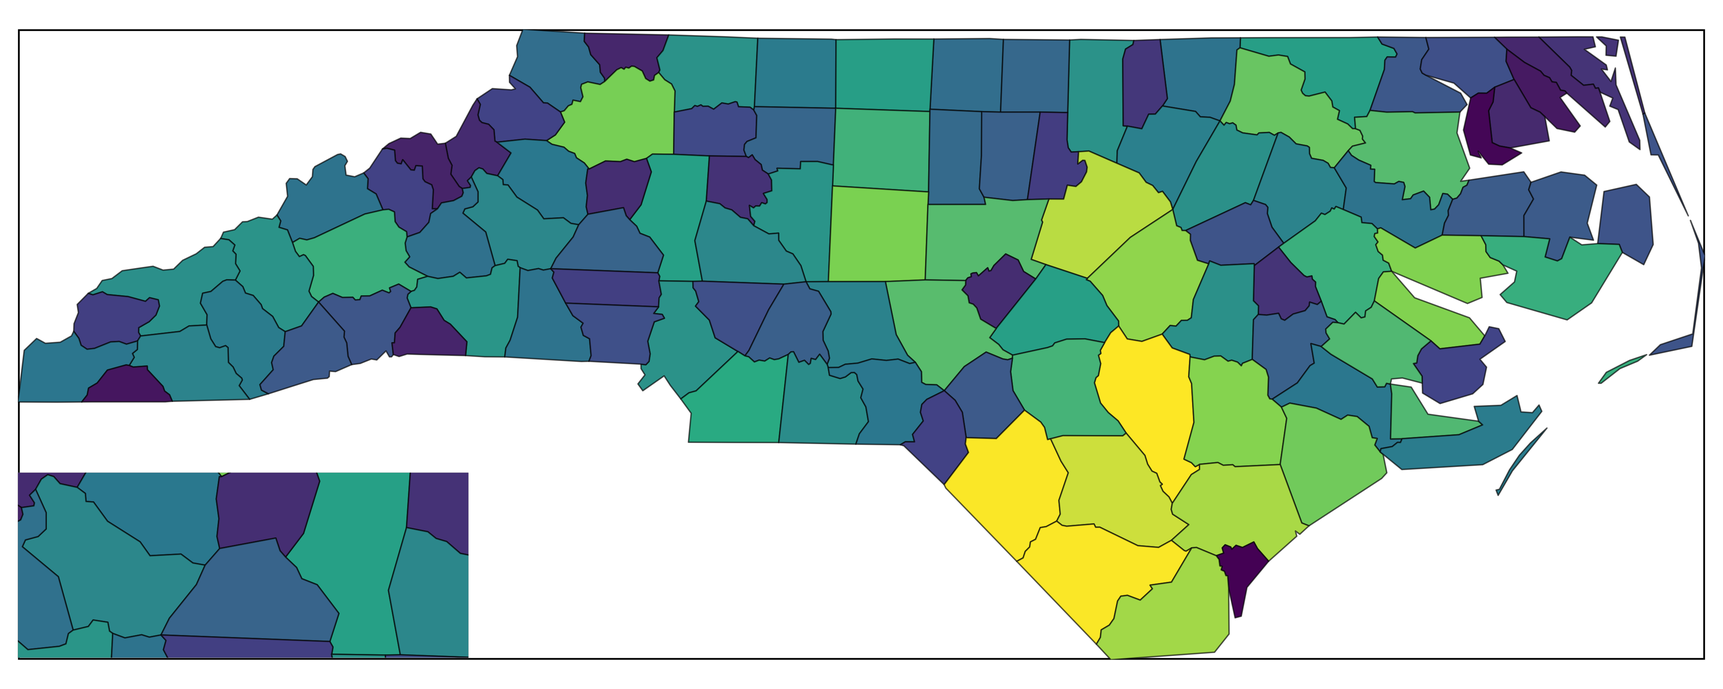
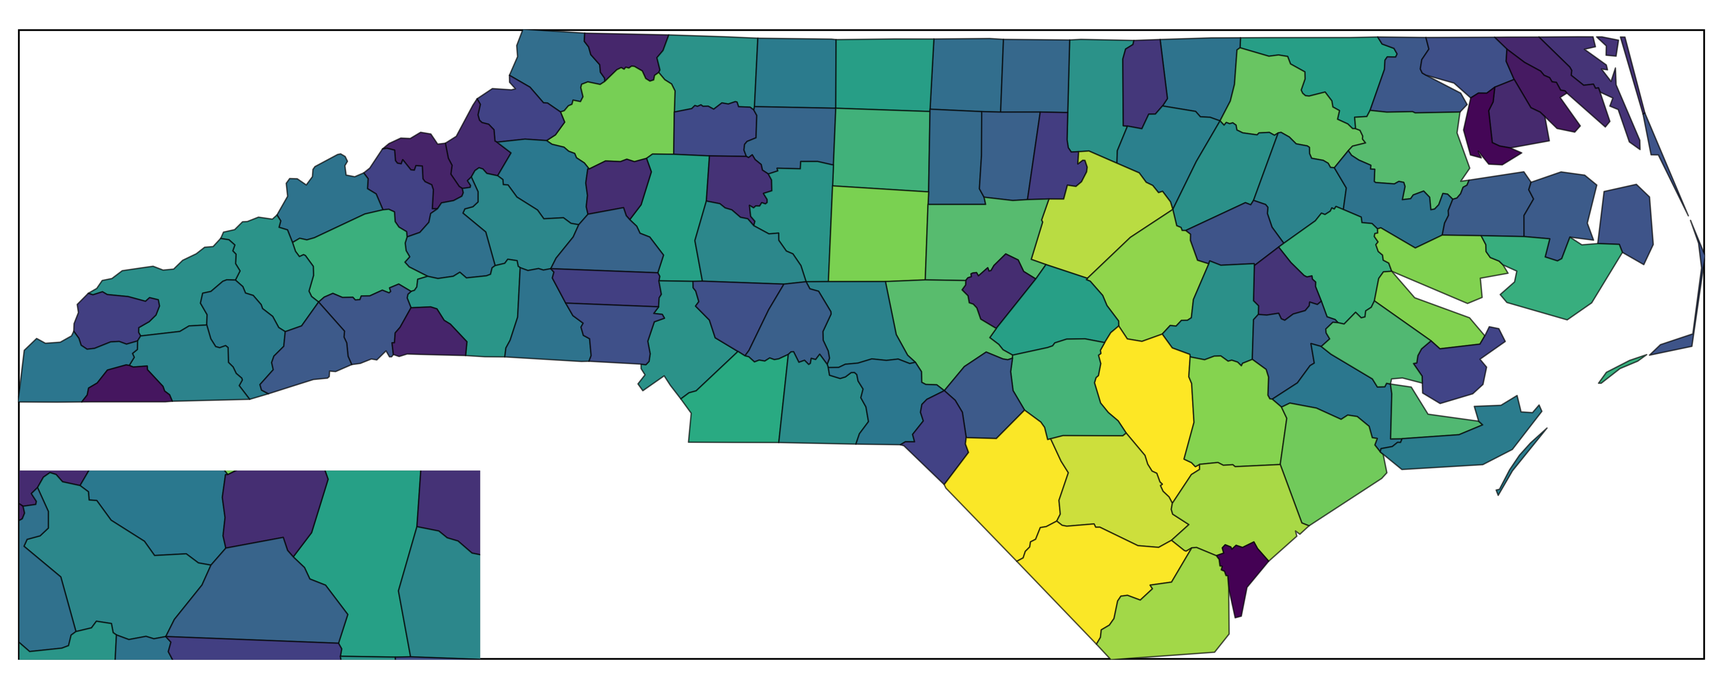
Deploying to gh-pages from @ fncokg/insetplot@d2dd25fe0463ac36d8b167d96184c5ed0bf99217 🚀

Changed region(s): [[0.0, 0.6789, 0.2798, 0.9566]]

diff --git a/articles/insetplot.html b/articles/insetplot.html
@@ -20,7 +20,7 @@
 
     <a class="navbar-brand me-2" href="../index.html">insetplot</a>
 
-    <small class="nav-text text-muted me-auto" data-bs-toggle="tooltip" data-bs-placement="bottom" title="">1.3.0</small>
+    <small class="nav-text text-muted me-auto" data-bs-toggle="tooltip" data-bs-placement="bottom" title="">1.4.0</small>
 
 
     <button class="navbar-toggler" type="button" data-bs-toggle="collapse" data-bs-target="#navbar" aria-controls="navbar" aria-expanded="false" aria-label="Toggle navigation">
@@ -68,7 +68,7 @@ insetplot, with emphasis on runnable code.</p>
 <div class="sourceCode" id="cb1"><pre class="downlit sourceCode r">
 <code class="sourceCode R"><span><span class="co"># 1) Configure the layout: one main map + one inset (nc loaded in setup)</span></span>
 <span><span class="fu"><a href="../reference/config_insetmap.html">config_insetmap</a></span><span class="op">(</span></span>
-<span>    data_list <span class="op">=</span> <span class="fu"><a href="https://rdrr.io/r/base/list.html" class="external-link">list</a></span><span class="op">(</span><span class="va">nc</span><span class="op">)</span>,</span>
+<span>    bbox <span class="op">=</span> <span class="fu"><a href="https://r-spatial.github.io/sf/reference/st_bbox.html" class="external-link">st_bbox</a></span><span class="op">(</span><span class="va">nc</span><span class="op">)</span>,</span>
 <span>    specs <span class="op">=</span> <span class="fu"><a href="https://rdrr.io/r/base/list.html" class="external-link">list</a></span><span class="op">(</span></span>
 <span>        <span class="fu"><a href="../reference/inset_spec.html">inset_spec</a></span><span class="op">(</span>main <span class="op">=</span> <span class="cn">TRUE</span><span class="op">)</span>,</span>
 <span>        <span class="fu"><a href="../reference/inset_spec.html">inset_spec</a></span><span class="op">(</span></span>
@@ -105,7 +105,7 @@ only.</p>
 <span>    <span class="fu"><a href="https://ggplot2.tidyverse.org/reference/ggtheme.html" class="external-link">theme_void</a></span><span class="op">(</span><span class="op">)</span></span>
 <span></span>
 <span><span class="fu"><a href="../reference/config_insetmap.html">config_insetmap</a></span><span class="op">(</span></span>
-<span>    data_list <span class="op">=</span> <span class="fu"><a href="https://rdrr.io/r/base/list.html" class="external-link">list</a></span><span class="op">(</span><span class="va">nc</span><span class="op">)</span>,</span>
+<span>    bbox <span class="op">=</span> <span class="fu"><a href="https://r-spatial.github.io/sf/reference/st_bbox.html" class="external-link">st_bbox</a></span><span class="op">(</span><span class="va">nc</span><span class="op">)</span>,</span>
 <span>    specs <span class="op">=</span> <span class="fu"><a href="https://rdrr.io/r/base/list.html" class="external-link">list</a></span><span class="op">(</span></span>
 <span>        <span class="fu"><a href="../reference/inset_spec.html">inset_spec</a></span><span class="op">(</span>main <span class="op">=</span> <span class="cn">TRUE</span>, plot <span class="op">=</span> <span class="va">main</span><span class="op">)</span>,</span>
 <span>        <span class="fu"><a href="../reference/inset_spec.html">inset_spec</a></span><span class="op">(</span></span>
@@ -185,7 +185,7 @@ on visual inspection of the output plot.</p>
 gracefully.</p>
 <div class="sourceCode" id="cb8"><pre class="downlit sourceCode r">
 <code class="sourceCode R"><span><span class="fu"><a href="../reference/config_insetmap.html">config_insetmap</a></span><span class="op">(</span></span>
-<span>    data_list <span class="op">=</span> <span class="fu"><a href="https://rdrr.io/r/base/list.html" class="external-link">list</a></span><span class="op">(</span><span class="va">nc</span><span class="op">)</span>,</span>
+<span>    bbox <span class="op">=</span> <span class="fu"><a href="https://r-spatial.github.io/sf/reference/st_bbox.html" class="external-link">st_bbox</a></span><span class="op">(</span><span class="va">nc</span><span class="op">)</span>,</span>
 <span>    specs <span class="op">=</span> <span class="fu"><a href="https://rdrr.io/r/base/list.html" class="external-link">list</a></span><span class="op">(</span></span>
 <span>        <span class="fu"><a href="../reference/inset_spec.html">inset_spec</a></span><span class="op">(</span>main <span class="op">=</span> <span class="cn">TRUE</span><span class="op">)</span>,</span>
 <span>        <span class="fu"><a href="../reference/inset_spec.html">inset_spec</a></span><span class="op">(</span></span>
@@ -276,25 +276,26 @@ shared base plot is used.</li>
 </h3>
 <div class="sourceCode" id="cb11"><pre class="downlit sourceCode r">
 <code class="sourceCode R"><span><span class="va">cfg</span> <span class="op">&lt;-</span> <span class="fu"><a href="../reference/config_insetmap.html">config_insetmap</a></span><span class="op">(</span></span>
-<span>    data_list <span class="op">=</span> <span class="fu"><a href="https://rdrr.io/r/base/list.html" class="external-link">list</a></span><span class="op">(</span><span class="va">nc</span><span class="op">)</span>, <span class="co"># list of sf objects used to compute extents/CRS</span></span>
+<span>    bbox <span class="op">=</span> <span class="fu"><a href="https://r-spatial.github.io/sf/reference/st_bbox.html" class="external-link">st_bbox</a></span><span class="op">(</span><span class="va">nc</span><span class="op">)</span>, <span class="co"># global bbox used to compute extents/CRS</span></span>
 <span>    specs <span class="op">=</span> <span class="fu"><a href="https://rdrr.io/r/base/list.html" class="external-link">list</a></span><span class="op">(</span></span>
 <span>        <span class="fu"><a href="../reference/inset_spec.html">inset_spec</a></span><span class="op">(</span>main <span class="op">=</span> <span class="cn">TRUE</span><span class="op">)</span>,</span>
 <span>        <span class="fu"><a href="../reference/inset_spec.html">inset_spec</a></span><span class="op">(</span>xmin <span class="op">=</span> <span class="op">-</span><span class="fl">84</span>, xmax <span class="op">=</span> <span class="op">-</span><span class="fl">75</span>, ymin <span class="op">=</span> <span class="fl">33</span>, ymax <span class="op">=</span> <span class="fl">37</span>, loc <span class="op">=</span> <span class="st">"left bottom"</span>, scale_factor <span class="op">=</span> <span class="fl">0.5</span><span class="op">)</span></span>
 <span>    <span class="op">)</span>,</span>
-<span>    crs <span class="op">=</span> <span class="fu">sf</span><span class="fu">::</span><span class="fu"><a href="https://r-spatial.github.io/sf/reference/st_crs.html" class="external-link">st_crs</a></span><span class="op">(</span><span class="st">"EPSG:4326"</span><span class="op">)</span>, <span class="co"># target CRS for coord_sf()</span></span>
+<span>    to_crs <span class="op">=</span> <span class="fu">sf</span><span class="fu">::</span><span class="fu"><a href="https://r-spatial.github.io/sf/reference/st_crs.html" class="external-link">st_crs</a></span><span class="op">(</span><span class="st">"EPSG:4326"</span><span class="op">)</span>, <span class="co"># target CRS for coord_sf()</span></span>
 <span>    border_args <span class="op">=</span> <span class="fu"><a href="https://rdrr.io/r/base/list.html" class="external-link">list</a></span><span class="op">(</span>color <span class="op">=</span> <span class="st">"black"</span>, linewidth <span class="op">=</span> <span class="fl">1</span><span class="op">)</span> <span class="co"># passed to map_border()</span></span>
 <span><span class="op">)</span></span></code></pre></div>
 <p><code><a href="../reference/config_insetmap.html">config_insetmap()</a></code> arguments:</p>
 <ul>
 <li>
-<code>data_list</code>: list of sf objects; used to compute union
-bbox and main aspect ratio.</li>
+<code>bbox</code>: overall bounding box (sf bbox or similar).</li>
 <li>
 <code>specs</code>: list of <code>inset_spec</code> objects; exactly
 one must have <code>main = TRUE</code>.</li>
 <li>
-<code>crs</code>: target CRS passed to
+<code>to_crs</code>: target CRS passed to
 <code><a href="https://ggplot2.tidyverse.org/reference/ggsf.html" class="external-link">ggplot2::coord_sf()</a></code>.</li>
+<li>
+<code>from_crs</code>: source CRS for non-sf inputs.</li>
 <li>
 <code>border_args</code>: style for inset borders via
 <code><a href="../reference/map_border.html">map_border()</a></code>.</li>

diff --git a/index.html b/index.html
@@ -22,7 +22,7 @@
 
     <a class="navbar-brand me-2" href="index.html">insetplot</a>
 
-    <small class="nav-text text-muted me-auto" data-bs-toggle="tooltip" data-bs-placement="bottom" title="">1.3.0</small>
+    <small class="nav-text text-muted me-auto" data-bs-toggle="tooltip" data-bs-placement="bottom" title="">1.4.0</small>
 
 
     <button class="navbar-toggler" type="button" data-bs-toggle="collapse" data-bs-target="#navbar" aria-controls="navbar" aria-expanded="false" aria-label="Toggle navigation">
@@ -70,7 +70,7 @@
 <span></span>
 <span><span class="co"># Configure insets: one main + one inset</span></span>
 <span><span class="fu"><a href="reference/config_insetmap.html">config_insetmap</a></span><span class="op">(</span></span>
-<span>  data_list <span class="op">=</span> <span class="fu"><a href="https://rdrr.io/r/base/list.html" class="external-link">list</a></span><span class="op">(</span><span class="va">nc</span><span class="op">)</span>,</span>
+<span>  bbox <span class="op">=</span> <span class="fu"><a href="https://r-spatial.github.io/sf/reference/st_bbox.html" class="external-link">st_bbox</a></span><span class="op">(</span><span class="va">nc</span><span class="op">)</span>,</span>
 <span>  specs <span class="op">=</span> <span class="fu"><a href="https://rdrr.io/r/base/list.html" class="external-link">list</a></span><span class="op">(</span></span>
 <span>    <span class="fu"><a href="reference/inset_spec.html">inset_spec</a></span><span class="op">(</span>main <span class="op">=</span> <span class="cn">TRUE</span><span class="op">)</span>,</span>
 <span>    <span class="fu"><a href="reference/inset_spec.html">inset_spec</a></span><span class="op">(</span></span>
@@ -103,7 +103,7 @@
 <span>  <span class="fu"><a href="https://ggplot2.tidyverse.org/reference/labs.html" class="external-link">ggtitle</a></span><span class="op">(</span><span class="st">"Detail Region"</span><span class="op">)</span> </span>
 <span></span>
 <span><span class="fu"><a href="reference/config_insetmap.html">config_insetmap</a></span><span class="op">(</span></span>
-<span>  data_list <span class="op">=</span> <span class="fu"><a href="https://rdrr.io/r/base/list.html" class="external-link">list</a></span><span class="op">(</span><span class="va">nc</span><span class="op">)</span>,</span>
+<span>  bbox <span class="op">=</span> <span class="fu"><a href="https://r-spatial.github.io/sf/reference/st_bbox.html" class="external-link">st_bbox</a></span><span class="op">(</span><span class="va">nc</span><span class="op">)</span>,</span>
 <span>  specs <span class="op">=</span> <span class="fu"><a href="https://rdrr.io/r/base/list.html" class="external-link">list</a></span><span class="op">(</span></span>
 <span>    <span class="fu"><a href="reference/inset_spec.html">inset_spec</a></span><span class="op">(</span>main <span class="op">=</span> <span class="cn">TRUE</span>, plot <span class="op">=</span> <span class="va">main_plot</span><span class="op">)</span>,</span>
 <span>    <span class="fu"><a href="reference/inset_spec.html">inset_spec</a></span><span class="op">(</span></span>
@@ -155,7 +155,11 @@
 <code><a href="reference/config_insetmap.html">config_insetmap()</a></code> — Build and store configuration
 <ul>
 <li>
-<code>data_list</code>: list of sf objects</li>
+<code>bbox</code>: overall bounding box (sf bbox or similar)</li>
+<li>
+<code>to_crs</code>: target Coordinate Reference System</li>
+<li>
+<code>from_crs</code>: source CRS for non-sf inputs</li>
 <li>
 <code>specs</code>: list of <code><a href="reference/inset_spec.html">inset_spec()</a></code>
 </li>
@@ -197,7 +201,7 @@
 </h3>
 <div class="sourceCode" id="cb5"><pre class="downlit sourceCode r">
 <code class="sourceCode R"><span><span class="fu"><a href="reference/config_insetmap.html">config_insetmap</a></span><span class="op">(</span></span>
-<span>  data_list <span class="op">=</span> <span class="fu"><a href="https://rdrr.io/r/base/list.html" class="external-link">list</a></span><span class="op">(</span><span class="va">nc</span><span class="op">)</span>,</span>
+<span>  bbox <span class="op">=</span> <span class="fu"><a href="https://r-spatial.github.io/sf/reference/st_bbox.html" class="external-link">st_bbox</a></span><span class="op">(</span><span class="va">nc</span><span class="op">)</span>,</span>
 <span>  specs <span class="op">=</span> <span class="fu"><a href="https://rdrr.io/r/base/list.html" class="external-link">list</a></span><span class="op">(</span></span>
 <span>    <span class="fu"><a href="reference/inset_spec.html">inset_spec</a></span><span class="op">(</span>main <span class="op">=</span> <span class="cn">TRUE</span><span class="op">)</span>,</span>
 <span>    <span class="fu"><a href="reference/inset_spec.html">inset_spec</a></span><span class="op">(</span></span>
@@ -216,7 +220,7 @@
 </h3>
 <div class="sourceCode" id="cb6"><pre class="downlit sourceCode r">
 <code class="sourceCode R"><span><span class="fu"><a href="reference/config_insetmap.html">config_insetmap</a></span><span class="op">(</span></span>
-<span>  data_list <span class="op">=</span> <span class="fu"><a href="https://rdrr.io/r/base/list.html" class="external-link">list</a></span><span class="op">(</span><span class="va">nc</span><span class="op">)</span>,</span>
+<span>  bbox <span class="op">=</span> <span class="fu"><a href="https://r-spatial.github.io/sf/reference/st_bbox.html" class="external-link">st_bbox</a></span><span class="op">(</span><span class="va">nc</span><span class="op">)</span>,</span>
 <span>  specs <span class="op">=</span> <span class="fu"><a href="https://rdrr.io/r/base/list.html" class="external-link">list</a></span><span class="op">(</span></span>
 <span>    <span class="fu"><a href="reference/inset_spec.html">inset_spec</a></span><span class="op">(</span>main <span class="op">=</span> <span class="cn">TRUE</span><span class="op">)</span>,</span>
 <span>    <span class="fu"><a href="reference/inset_spec.html">inset_spec</a></span><span class="op">(</span></span>
@@ -234,7 +238,6 @@
 <div class="sourceCode" id="cb7"><pre class="downlit sourceCode r">
 <code class="sourceCode R"><span><span class="fu"><a href="reference/ggsave_inset.html">ggsave_inset</a></span><span class="op">(</span></span>
 <span>  <span class="st">"map_with_insets.png"</span>,</span>
-<span>  plot <span class="op">=</span> <span class="va">composed_plot</span>,</span>
 <span>  <span class="co"># `height` auto-calculated from `main_ratio`</span></span>
 <span>  width <span class="op">=</span> <span class="fl">12</span>,</span>
 <span>  dpi <span class="op">=</span> <span class="fl">300</span></span>

diff --git a/reference/with_inset.html b/reference/with_inset.html
@@ -15,7 +15,7 @@ a border from map_border(). Insets are composed using patchwork::inset_element()
 
     <a class="navbar-brand me-2" href="../index.html">insetplot</a>
 
-    <small class="nav-text text-muted me-auto" data-bs-toggle="tooltip" data-bs-placement="bottom" title="">1.3.0</small>
+    <small class="nav-text text-muted me-auto" data-bs-toggle="tooltip" data-bs-placement="bottom" title="">1.4.0</small>
 
 
     <button class="navbar-toggler" type="button" data-bs-toggle="collapse" data-bs-target="#navbar" aria-controls="navbar" aria-expanded="false" aria-label="Toggle navigation">
@@ -127,6 +127,7 @@ returns a list. See 'Value' section for details.</p></dd>
 <span class="r-in"><span>        <span class="op">)</span></span></span>
 <span class="r-in"><span>    <span class="op">)</span></span></span>
 <span class="r-in"><span><span class="op">)</span></span></span>
+<span class="r-err co"><span class="r-pr">#&gt;</span> <span class="error">Error in config_insetmap(data_list = list(nc), specs = list(inset_spec(main = TRUE),     inset_spec(xmin = -82, xmax = -80.5, ymin = 35.5, ymax = 36,         loc = "left bottom", scale_factor = 2))):</span> unused argument (data_list = list(nc))</span>
 <span class="r-in"><span></span></span>
 <span class="r-in"><span><span class="co"># Supply base plot for all subplots</span></span></span>
 <span class="r-in"><span><span class="va">base</span> <span class="op">&lt;-</span> <span class="fu"><a href="https://ggplot2.tidyverse.org/reference/ggplot.html" class="external-link">ggplot</a></span><span class="op">(</span><span class="va">nc</span>, <span class="fu"><a href="https://ggplot2.tidyverse.org/reference/aes.html" class="external-link">aes</a></span><span class="op">(</span>fill <span class="op">=</span> <span class="va">AREA</span><span class="op">)</span><span class="op">)</span> <span class="op">+</span></span></span>
@@ -135,7 +136,7 @@ returns a list. See 'Value' section for details.</p></dd>
 <span class="r-in"><span>    <span class="fu"><a href="https://ggplot2.tidyverse.org/reference/guides.html" class="external-link">guides</a></span><span class="op">(</span>fill <span class="op">=</span> <span class="st">"none"</span><span class="op">)</span> <span class="op">+</span></span></span>
 <span class="r-in"><span>    <span class="fu"><a href="https://ggplot2.tidyverse.org/reference/ggtheme.html" class="external-link">theme_void</a></span><span class="op">(</span><span class="op">)</span></span></span>
 <span class="r-in"><span><span class="fu">with_inset</span><span class="op">(</span><span class="va">base</span><span class="op">)</span></span></span>
-<span class="r-plt img"><img src="with_inset-1.png" alt="" width="700" height="433"></span>
+<span class="r-err co"><span class="r-pr">#&gt;</span> <span class="error">Error:</span> No inset configuration found. Please run config_insetmap() first.</span>
 <span class="r-in"><span></span></span>
 <span class="r-in"><span><span class="co"># Or supply custom plots in each inset_spec, then call with_inset() without plot</span></span></span>
 <span class="r-in"><span><span class="fu"><a href="config_insetmap.html">config_insetmap</a></span><span class="op">(</span></span></span>
@@ -149,8 +150,9 @@ returns a list. See 'Value' section for details.</p></dd>
 <span class="r-in"><span>        <span class="op">)</span></span></span>
 <span class="r-in"><span>    <span class="op">)</span></span></span>
 <span class="r-in"><span><span class="op">)</span></span></span>
+<span class="r-err co"><span class="r-pr">#&gt;</span> <span class="error">Error in config_insetmap(data_list = list(nc), specs = list(inset_spec(main = TRUE,     plot = base), inset_spec(xmin = -82, xmax = -80.5, ymin = 35.5,     ymax = 36, loc = "left bottom", scale_factor = 2, plot = base))):</span> unused argument (data_list = list(nc))</span>
 <span class="r-in"><span><span class="fu">with_inset</span><span class="op">(</span><span class="op">)</span> <span class="co"># plot parameter is optional now</span></span></span>
-<span class="r-plt img"><img src="with_inset-2.png" alt="" width="700" height="433"></span>
+<span class="r-err co"><span class="r-pr">#&gt;</span> <span class="error">Error:</span> No inset configuration found. Please run config_insetmap() first.</span>
 <span class="r-in"><span></span></span>
 </code></pre></div>
     </div>

diff --git a/reference/ggsave_inset.html b/reference/ggsave_inset.html
@@ -13,7 +13,7 @@ rendering of all subplots."></head><body>
 
     <a class="navbar-brand me-2" href="../index.html">insetplot</a>
 
-    <small class="nav-text text-muted me-auto" data-bs-toggle="tooltip" data-bs-placement="bottom" title="">1.3.0</small>
+    <small class="nav-text text-muted me-auto" data-bs-toggle="tooltip" data-bs-placement="bottom" title="">1.4.0</small>
 
 
     <button class="navbar-toggler" type="button" data-bs-toggle="collapse" data-bs-target="#navbar" aria-controls="navbar" aria-expanded="false" aria-label="Toggle navigation">
@@ -141,6 +141,7 @@ a warning is issued as the output aspect ratio may not match the configuration.<
 <span class="r-in"><span>        <span class="op">)</span></span></span>
 <span class="r-in"><span>    <span class="op">)</span></span></span>
 <span class="r-in"><span><span class="op">)</span></span></span>
+<span class="r-err co"><span class="r-pr">#&gt;</span> <span class="error">Error in config_insetmap(data_list = list(nc), specs = list(inset_spec(main = TRUE),     inset_spec(xmin = -84, xmax = -75, ymin = 33, ymax = 37,         loc = "left bottom", width = 0.3))):</span> unused argument (data_list = list(nc))</span>
 <span class="r-in"><span></span></span>
 <span class="r-in"><span><span class="va">base</span> <span class="op">&lt;-</span> <span class="fu"><a href="https://ggplot2.tidyverse.org/reference/ggplot.html" class="external-link">ggplot</a></span><span class="op">(</span><span class="va">nc</span>, <span class="fu"><a href="https://ggplot2.tidyverse.org/reference/aes.html" class="external-link">aes</a></span><span class="op">(</span>fill <span class="op">=</span> <span class="va">AREA</span><span class="op">)</span><span class="op">)</span> <span class="op">+</span></span></span>
 <span class="r-in"><span>    <span class="fu"><a href="https://ggplot2.tidyverse.org/reference/ggsf.html" class="external-link">geom_sf</a></span><span class="op">(</span><span class="op">)</span> <span class="op">+</span></span></span>
@@ -148,11 +149,12 @@ a warning is issued as the output aspect ratio may not match the configuration.<
 <span class="r-in"><span>    <span class="fu"><a href="https://ggplot2.tidyverse.org/reference/guides.html" class="external-link">guides</a></span><span class="op">(</span>fill <span class="op">=</span> <span class="st">"none"</span><span class="op">)</span> <span class="op">+</span></span></span>
 <span class="r-in"><span>    <span class="fu"><a href="https://ggplot2.tidyverse.org/reference/ggtheme.html" class="external-link">theme_void</a></span><span class="op">(</span><span class="op">)</span></span></span>
 <span class="r-in"><span><span class="fu"><a href="with_inset.html">with_inset</a></span><span class="op">(</span><span class="va">base</span><span class="op">)</span></span></span>
-<span class="r-plt img"><img src="ggsave_inset-1.png" alt="" width="700" height="433"></span>
+<span class="r-err co"><span class="r-pr">#&gt;</span> <span class="error">Error:</span> No inset configuration found. Please run config_insetmap() first.</span>
 <span class="r-in"><span></span></span>
 <span class="r-in"><span><span class="co"># Save with automatically calculated height</span></span></span>
 <span class="r-in"><span></span></span>
 <span class="r-in"><span><span class="fu">ggsave_inset</span><span class="op">(</span><span class="fu"><a href="https://rdrr.io/r/base/paste.html" class="external-link">paste0</a></span><span class="op">(</span><span class="fu"><a href="https://rdrr.io/r/base/tempfile.html" class="external-link">tempdir</a></span><span class="op">(</span><span class="op">)</span>, <span class="st">"/inset_map.png"</span><span class="op">)</span>, width <span class="op">=</span> <span class="fl">10</span><span class="op">)</span></span></span>
+<span class="r-err co"><span class="r-pr">#&gt;</span> <span class="error">Error in check_numeric_scalar(height, "height"):</span> height must be a numeric scalar</span>
 </code></pre></div>
     </div>
   </main><aside class="col-md-3"><nav id="toc" aria-label="Table of contents"><h2>On this page</h2>

diff --git a/reference/last_insetcfg.html b/reference/last_insetcfg.html
@@ -9,7 +9,7 @@ This is used internally by with_inset() when no configuration is explicitly prov
 
     <a class="navbar-brand me-2" href="../index.html">insetplot</a>
 
-    <small class="nav-text text-muted me-auto" data-bs-toggle="tooltip" data-bs-placement="bottom" title="">1.3.0</small>
+    <small class="nav-text text-muted me-auto" data-bs-toggle="tooltip" data-bs-placement="bottom" title="">1.4.0</small>
 
 
     <button class="navbar-toggler" type="button" data-bs-toggle="collapse" data-bs-target="#navbar" aria-controls="navbar" aria-expanded="false" aria-label="Toggle navigation">
@@ -71,6 +71,7 @@ configuration has been set.</p>
 <span class="r-in"><span>        <span class="op">)</span></span></span>
 <span class="r-in"><span>    <span class="op">)</span></span></span>
 <span class="r-in"><span><span class="op">)</span></span></span>
+<span class="r-err co"><span class="r-pr">#&gt;</span> <span class="error">Error in config_insetmap(data_list = list(nc), specs = list(inset_spec(main = TRUE),     inset_spec(xmin = -84, xmax = -75, ymin = 33, ymax = 37,         loc = "left bottom", width = 0.3))):</span> unused argument (data_list = list(nc))</span>
 <span class="r-in"><span></span></span>
 <span class="r-in"><span><span class="co"># Retrieve the configuration</span></span></span>
 <span class="r-in"><span><span class="va">cfg</span> <span class="op">&lt;-</span> <span class="fu">last_insetcfg</span><span class="op">(</span><span class="op">)</span></span></span>

diff --git a/news/index.html b/news/index.html
@@ -7,7 +7,7 @@
 
     <a class="navbar-brand me-2" href="../index.html">insetplot</a>
 
-    <small class="nav-text text-muted me-auto" data-bs-toggle="tooltip" data-bs-placement="bottom" title="">1.3.0</small>
+    <small class="nav-text text-muted me-auto" data-bs-toggle="tooltip" data-bs-placement="bottom" title="">1.4.0</small>
 
 
     <button class="navbar-toggler" type="button" data-bs-toggle="collapse" data-bs-target="#navbar" aria-controls="navbar" aria-expanded="false" aria-label="Toggle navigation">
@@ -33,6 +33,11 @@
       <small>Source: <a href="https://github.com/fncokg/insetplot/blob/main/NEWS.md" class="external-link"><code>NEWS.md</code></a></small>
     </div>
 
+    <div class="section level2">
+<h2 class="pkg-version" data-toc-text="1.4.0" id="insetplot-140">insetplot 1.4.0<a class="anchor" aria-label="anchor" href="#insetplot-140"></a></h2>
+<ul><li>Migrate bbox logic from data-based to lims-based to get more accurate ratios</li>
+<li>Bug fix: fixed incorrect main plot ratio calculation when the main extend is clipped</li>
+</ul></div>
     <div class="section level2">
 <h2 class="pkg-version" data-toc-text="1.3.0" id="insetplot-130">insetplot 1.3.0<a class="anchor" aria-label="anchor" href="#insetplot-130"></a></h2><p class="text-muted">CRAN release: 2025-12-18</p>
 </div>

diff --git a/reference/config_insetmap.html b/reference/config_insetmap.html
@@ -11,7 +11,7 @@ CRS settings, and border appearance for insets."></head><body>
 
     <a class="navbar-brand me-2" href="../index.html">insetplot</a>
 
-    <small class="nav-text text-muted me-auto" data-bs-toggle="tooltip" data-bs-placement="bottom" title="">1.3.0</small>
+    <small class="nav-text text-muted me-auto" data-bs-toggle="tooltip" data-bs-placement="bottom" title="">1.4.0</small>
 
 
     <button class="navbar-toggler" type="button" data-bs-toggle="collapse" data-bs-target="#navbar" aria-controls="navbar" aria-expanded="false" aria-label="Toggle navigation">
@@ -104,6 +104,7 @@ borders around inset plots. See <code><a href="map_border.html">map_border()</a>
 <span class="r-in"><span>        <span class="op">)</span></span></span>
 <span class="r-in"><span>    <span class="op">)</span></span></span>
 <span class="r-in"><span><span class="op">)</span></span></span>
+<span class="r-err co"><span class="r-pr">#&gt;</span> <span class="error">Error in config_insetmap(data_list = list(nc), specs = list(inset_spec(main = TRUE),     inset_spec(xmin = -84, xmax = -75, ymin = 33, ymax = 37,         loc = "left bottom", scale_factor = 0.5))):</span> unused argument (data_list = list(nc))</span>
 <span class="r-in"><span></span></span>
 </code></pre></div>
     </div>

diff --git a/authors.html b/authors.html
@@ -7,7 +7,7 @@
 
     <a class="navbar-brand me-2" href="index.html">insetplot</a>
 
-    <small class="nav-text text-muted me-auto" data-bs-toggle="tooltip" data-bs-placement="bottom" title="">1.3.0</small>
+    <small class="nav-text text-muted me-auto" data-bs-toggle="tooltip" data-bs-placement="bottom" title="">1.4.0</small>
 
 
     <button class="navbar-toggler" type="button" data-bs-toggle="collapse" data-bs-target="#navbar" aria-controls="navbar" aria-expanded="false" aria-label="Toggle navigation">
@@ -47,13 +47,13 @@
 
       <p>Kong C (2026).
 <em>insetplot: Inset Plots for Spatial Data Visualization</em>.
-R package version 1.3.0, <a href="https://fncokg.github.io/insetplot/">https://fncokg.github.io/insetplot/</a>.
+R package version 1.4.0, <a href="https://fncokg.github.io/insetplot/">https://fncokg.github.io/insetplot/</a>.
 </p>
       <pre>@Manual{,
   title = {insetplot: Inset Plots for Spatial Data Visualization},
   author = {Chao Kong},
   year = {2026},
-  note = {R package version 1.3.0},
+  note = {R package version 1.4.0},
   url = {https://fncokg.github.io/insetplot/},
 }</pre>
     </div>

diff --git a/reference/insetplot-package.html b/reference/insetplot-package.html
@@ -9,7 +9,7 @@ spatial configuration, aspect ratios, and plot composition automatically."></hea
 
     <a class="navbar-brand me-2" href="../index.html">insetplot</a>
 
-    <small class="nav-text text-muted me-auto" data-bs-toggle="tooltip" data-bs-placement="bottom" title="">1.3.0</small>
+    <small class="nav-text text-muted me-auto" data-bs-toggle="tooltip" data-bs-placement="bottom" title="">1.4.0</small>
 
 
     <button class="navbar-toggler" type="button" data-bs-toggle="collapse" data-bs-target="#navbar" aria-controls="navbar" aria-expanded="false" aria-label="Toggle navigation">

diff --git a/reference/map_border.html b/reference/map_border.html
@@ -9,7 +9,7 @@ Handy for visually separating inset plots from the main plot."></head><body>
 
     <a class="navbar-brand me-2" href="../index.html">insetplot</a>
 
-    <small class="nav-text text-muted me-auto" data-bs-toggle="tooltip" data-bs-placement="bottom" title="">1.3.0</small>
+    <small class="nav-text text-muted me-auto" data-bs-toggle="tooltip" data-bs-placement="bottom" title="">1.4.0</small>
 
 
     <button class="navbar-toggler" type="button" data-bs-toggle="collapse" data-bs-target="#navbar" aria-controls="navbar" aria-expanded="false" aria-label="Toggle navigation">

diff --git a/404.html b/404.html
@@ -20,7 +20,7 @@
 
     <a class="navbar-brand me-2" href="https://fncokg.github.io/insetplot/index.html">insetplot</a>
 
-    <small class="nav-text text-muted me-auto" data-bs-toggle="tooltip" data-bs-placement="bottom" title="">1.3.0</small>
+    <small class="nav-text text-muted me-auto" data-bs-toggle="tooltip" data-bs-placement="bottom" title="">1.4.0</small>
 
 
     <button class="navbar-toggler" type="button" data-bs-toggle="collapse" data-bs-target="#navbar" aria-controls="navbar" aria-expanded="false" aria-label="Toggle navigation">

diff --git a/articles/index.html b/articles/index.html
@@ -7,7 +7,7 @@
 
     <a class="navbar-brand me-2" href="../index.html">insetplot</a>
 
-    <small class="nav-text text-muted me-auto" data-bs-toggle="tooltip" data-bs-placement="bottom" title="">1.3.0</small>
+    <small class="nav-text text-muted me-auto" data-bs-toggle="tooltip" data-bs-placement="bottom" title="">1.4.0</small>
 
 
     <button class="navbar-toggler" type="button" data-bs-toggle="collapse" data-bs-target="#navbar" aria-controls="navbar" aria-expanded="false" aria-label="Toggle navigation">
